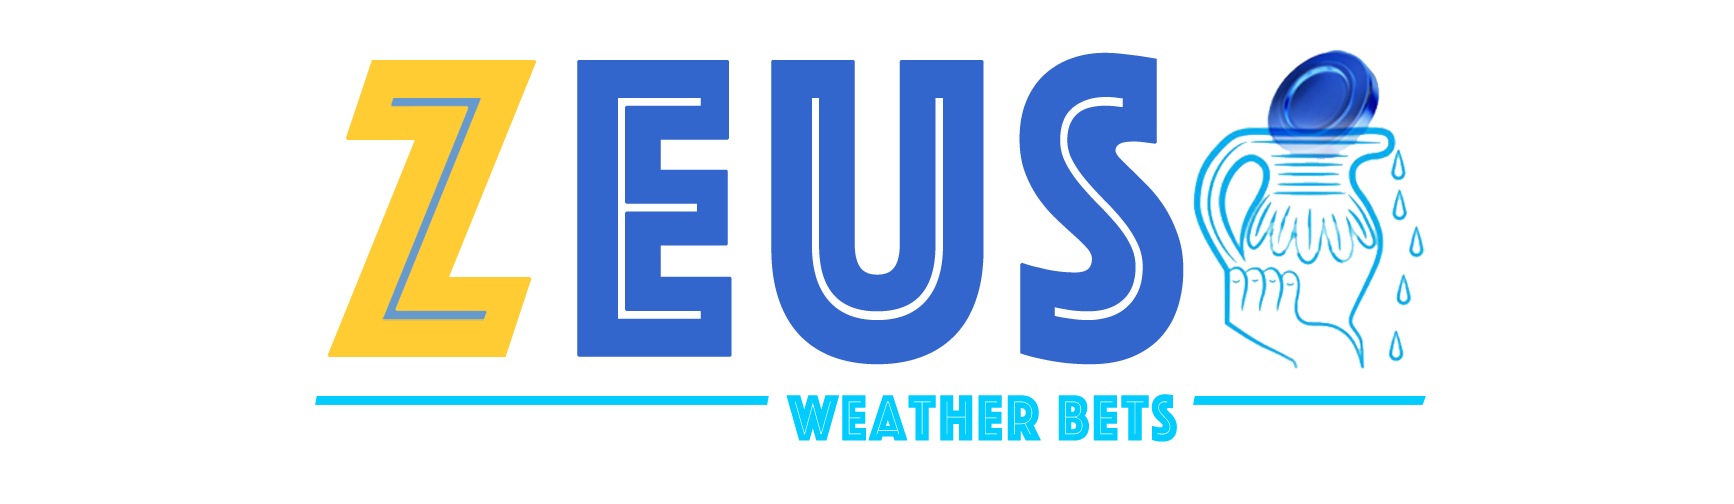
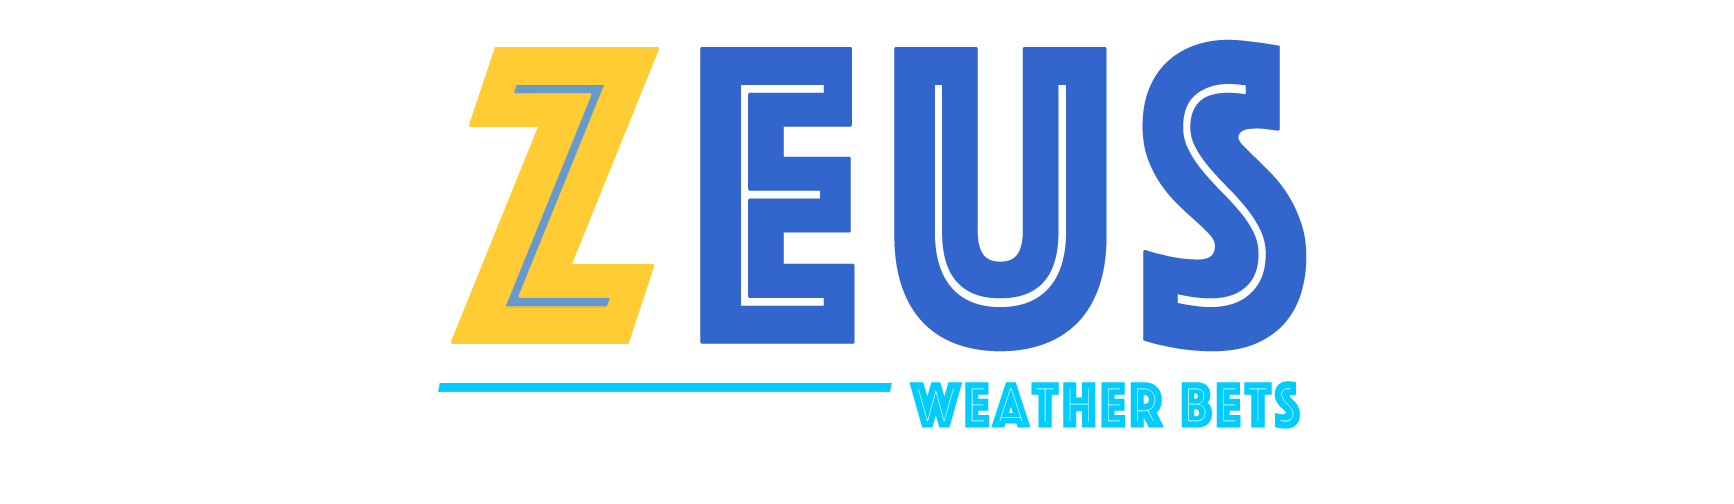
boost save réparé et new Zeus visuels

Changed region(s): [[0.1869, 0.0595, 0.8408, 0.8929], [0.7785, 0.6548, 0.8097, 0.7143]]

diff --git a/mood_speculator_v2.py b/mood_speculator_v2.py
@@ -4505,11 +4505,10 @@ def ppp_boost():
 
     # UPSERT avec prise en compte station_id dans la clé unique
     upsert_sql = text("""
-        INSERT INTO ppp_boosts (user_id, bet_date, station_id, total, value, created_at)
-        VALUES (:uid, :d, :sid, :inc, :inc, :now)
+        INSERT INTO ppp_boosts (user_id, bet_date, station_id, value, created_at)
+        VALUES (:uid, :d, :sid, :inc, :now)
         ON CONFLICT(user_id, bet_date, station_id)
         DO UPDATE SET
-            total = COALESCE(ppp_boosts.total, 0) + :inc,
             value = COALESCE(ppp_boosts.value, 0) + :inc
     """)
 
@@ -4525,7 +4524,7 @@ def ppp_boost():
 
     params = {
         "uid": current_user.id,
-        "d": bet_date.isoformat(),
+        "d": bet_date,
         "sid": station_id,
         "inc": inc,
         "now": datetime.now(UTC),
@@ -4540,6 +4539,34 @@ def ppp_boost():
 
     total = db.session.execute(sel_sql, {"uid": params["uid"], "d": params["d"], "sid": params["sid"]}).scalar() or 0.0
     return jsonify(ok=True, total=float(total)), 200
+
+@app.post('/api/ppp/bets/<int:bet_id>/boosts')
+@login_required
+def ppp_update_boosts(bet_id):
+    me = int(current_user.get_id())
+    bet = PPPBet.query.get_or_404(bet_id)
+    if int(bet.user_id) != me:
+        return jsonify({"ok": False, "error": "forbidden"}), 403
+
+    data = request.get_json(silent=True) or {}
+    boosts_count = int(data.get('boosts_count') or 0)
+    boosts_add   = float(data.get('boosts_add') or 0.0)
+
+    # colonnes directes si elles existent
+    if hasattr(bet, 'boosts_count'): bet.boosts_count = boosts_count
+    if hasattr(bet, 'boosts_add'):   bet.boosts_add   = boosts_add
+
+    # garde aussi dans payload (tes UIs lisent souvent depuis payload)
+    pl = dict(bet.payload or {})
+    pl['boosts_count'] = boosts_count
+    pl['boosts_add']   = boosts_add
+    # recalcul optionnel
+    base_odds = float(pl.get('base_odds') or getattr(bet, 'odds', 1.0) or 1.0)
+    pl['total_odds'] = base_odds + boosts_add
+    bet.payload = pl
+
+    db.session.commit()
+    return jsonify({"ok": True})
 
 @app.get("/carte")
 @login_required
